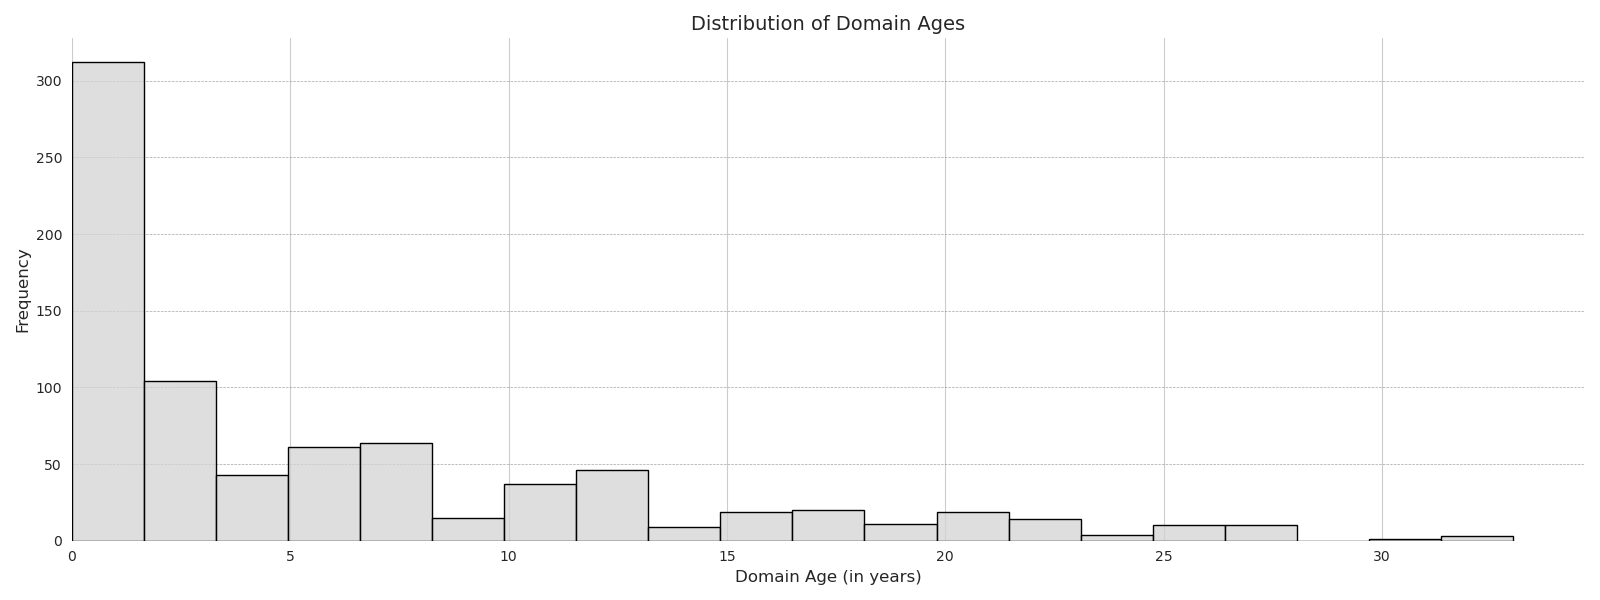
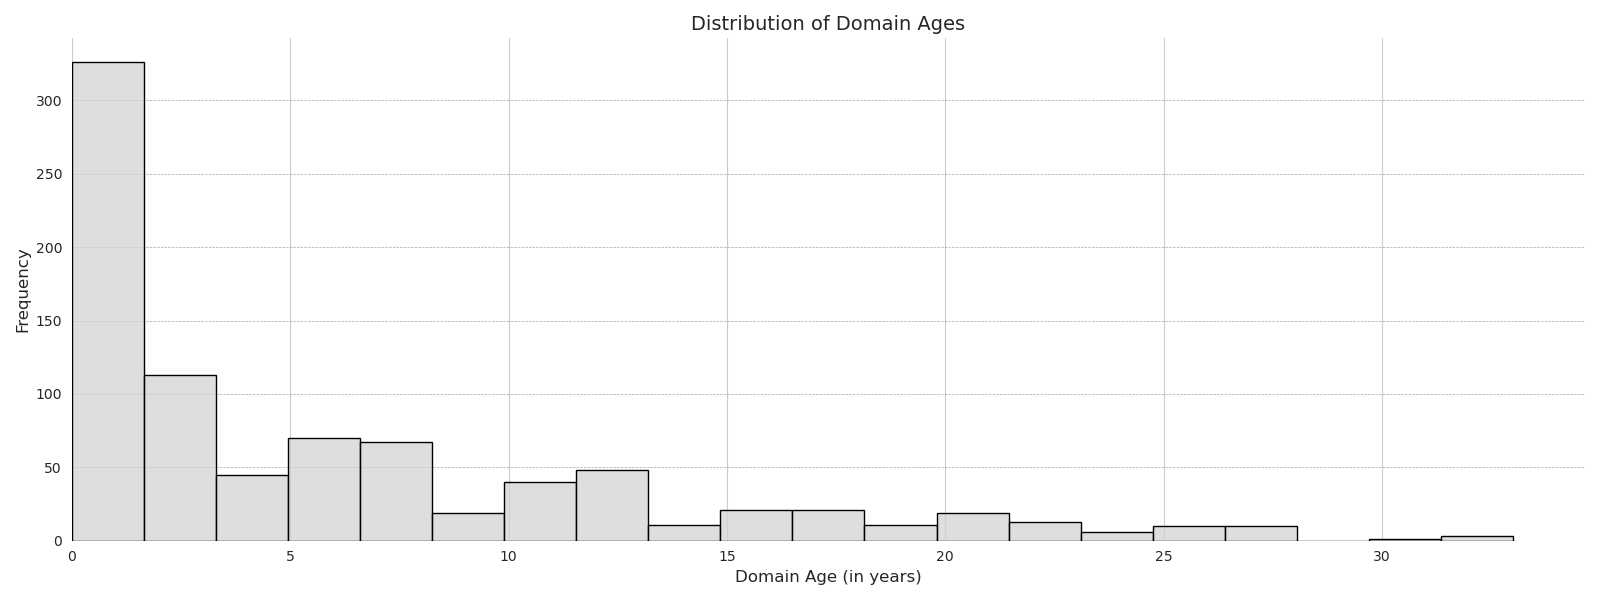
m

diff --git a/field_study/draw_utils.py b/field_study/draw_utils.py
@@ -17,6 +17,7 @@ import seaborn as sns
 from typing import List
 import cv2
 from Levenshtein import distance as levenshtein_distance
+from itertools import cycle
 
 def draw_annotated_image_nobox(image: Image.Image, txt: str):
     # Convert the image to RGBA for transparent overlay
@@ -187,16 +188,23 @@ class DomainAnalysis:
 
     def domain_age_distribution(domain_age_list):
         sns.set_style("whitegrid")
-        fig, ax = plt.subplots(figsize=(8, 6))
-        sns.histplot(domain_age_list, bins=20, kde=False, color='grey', edgecolor='black')
+        fig, ax = plt.subplots(figsize=(16, 6))  # Wider figure to match the second code
+
+        sns.histplot(domain_age_list, bins=20, color='lightgray', edgecolor='black',
+                     kde=False)  # Match color and edgecolor
 
         plt.title('Distribution of Domain Ages', fontsize=14)
         plt.xlabel('Domain Age (in years)', fontsize=12)
         plt.ylabel('Frequency', fontsize=12)
         ax.tick_params(axis='both', which='major', labelsize=10)
-        ax.yaxis.grid(True, linestyle='--', linewidth=0.7, alpha=0.7)
+        ax.yaxis.grid(True, linestyle='--', linewidth=0.5, color='gray', alpha=0.7)  # Light grid lines only for y-axis
+
         plt.xlim(left=0)
-        sns.despine()
+
+        plt.gca().spines['top'].set_visible(False)  # Remove top spine
+        plt.gca().spines['right'].set_visible(False)  # Remove right spine
+
+        sns.despine(left=True, bottom=True)
         plt.tight_layout()
         plt.savefig('./field_study/plots/domain_age.png')
         plt.close()
@@ -227,67 +235,41 @@ class BrandAnalysis:
         plt.savefig('./field_study/plots/brand_freq.png')
         plt.close()
 
-    def visualize_sectors(sectors, threshold=2.0):
+    def visualize_sectors(sectors, topk=10):
         # Aggregate the sectors
-        sector_counts = {}
-        for sector in sectors:
-            if sector == 'None':
-                sector = 'Uncategorized'
-            sector_counts[sector] = sector_counts.get(sector, 0) + 1
+        sector_counts = Counter(sectors)
 
-        # Remove 'Uncategorized' class if present
-        if 'Uncategorized' in sector_counts:
-            del sector_counts['Uncategorized']
-
-        # Combine small percentages into "Other" category
+        # Calculate total count including 'None' and 'Uncategorized'
         total = sum(sector_counts.values())
-        other_count = 0
-        for sector, count in list(sector_counts.items()):
-            if 100.0 * count / total < threshold:
-                other_count += count
-                del sector_counts[sector]
-        if other_count > 0:
-            sector_counts['Other'] = other_count
+
+        # Remove 'None' or 'Uncategorized' class for visualization
+        sector_counts.pop('None', None)
+        sector_counts.pop('Uncategorized', None)
+
+        # Sort sectors by count
+        sorted_sectors = sorted(sector_counts.items(), key=lambda x: x[1], reverse=True)[:topk]
+
+        # Calculate percentages
+        sorted_percentages = [(label, (count / total) * 100) for label, count in sorted_sectors]
 
         # Visualize the results
-        sns.set_style("white")
-        labels = list(sector_counts.keys())
-        sizes = list(sector_counts.values())
+        sns.set_style("whitegrid")
+        labels, percentages = zip(*sorted_percentages)
 
-        fig, ax = plt.subplots(figsize=(8, 5))
-        colors = sns.color_palette("tab10", len(labels))
-        if 'Other' in labels:
-            other_index = labels.index('Other')
-            colors[other_index] = (0.8, 0.8, 0.8)  # Light gray for 'Other'
+        fig, ax = plt.subplots(figsize=(10, 8))
+        colors = sns.color_palette("Blues", len(labels))
 
-        wedges, texts, autotexts = ax.pie(
-            sizes,
-            autopct='%1.1f%%',
-            startangle=140,
-            colors=colors,
-            pctdistance=0.85,  # Adjust this value to position the percentage labels
-            wedgeprops={'edgecolor': 'grey', 'linewidth': 1},
-            textprops={'fontsize': 12, 'color': 'black'}
-        )
+        ax.barh(labels, percentages, color=colors, edgecolor='grey')
+        ax.set_xlabel('Percentage (%)', fontsize=12)
+        ax.set_ylabel('Sectors', fontsize=12)
+        ax.set_title('Top {} Phishing Targets by Sector'.format(topk), fontsize=14)
+        ax.tick_params(axis='both', which='major', labelsize=10)
 
-        # Draw a white circle at the center to make it a donut chart
-        centre_circle = plt.Circle((0, 0), 0.70, fc='white', edgecolor='grey', linewidth=1)
-        fig.gca().add_artist(centre_circle)
-
-        # Add a legend with the sector labels
-        plt.legend(
-            loc="upper left",
-            labels=labels,
-            prop={'size': 10},
-            title="Sectors",
-            bbox_to_anchor=(1, 1)
-        )
-
-        plt.axis('equal')  # Equal aspect ratio ensures pie is drawn as a circle.
-        plt.title('Distribution of Phishing Targets by Sector', fontsize=14)
+        sns.despine(left=True, bottom=True)
         plt.tight_layout()
         plt.savefig('./field_study/plots/brand_sector.png')
         plt.close()
+
 
 class IPAnalysis:
 
@@ -407,42 +389,60 @@ class CampaignAnalysis:
         return clusters_path
 
     def visualize_campaign(self, clusters):
-
-        # Create a new figure.
+        # Initialize Figure
         plt.figure(figsize=(10, 6))
 
-        # Use a professional color palette
-        colors = sns.color_palette("husl", len(clusters))
+        # Define Color Palette
+        colors = cycle(sns.color_palette("husl", 5))
 
-        # Collect all unique dates
+        # Extract Unique Dates
         all_dates = set()
         for cluster in clusters:
             _, dates, targets = zip(*cluster)
             all_dates.update(dates)
         all_dates = sorted(list(all_dates), key=lambda date: datetime.strptime(date, '%Y-%m-%d'))
 
-        # Convert each cluster into a timeseries and plot it.
-        for i, (cluster, color) in enumerate(zip(clusters, colors)):
-            # Skip clusters with fewer than 3 items or only seen on a single date
+        # Plot Time Series for Each Cluster
+        for i, cluster in enumerate(clusters):
             _, dates, targets = zip(*cluster)
-            if len(cluster) < 4 or len(set(dates)) == 1 or targets[0] == 'outlook.com':
+
+            # Filter Clusters
+            if len(cluster) < 4 or targets[0] == 'outlook.com':
                 continue
             print(cluster)
+            # Convert Cluster to Time Series
             dates, counts = self.cluster_to_timeseries(cluster, all_dates)
-            plt.plot(dates, counts, marker='o', color=color, label=f'Target = {targets[0]}')
 
-        # Add a legend and labels.
+            # Identify Indices for First and Last Increases
+            first_increase_index, last_increase_index = None, None
+            for i in range(1, len(counts)):
+                if counts[i] > counts[i - 1]:
+                    last_increase_index = i
+                    if first_increase_index is None:
+                        first_increase_index = i
+
+            # Trim and Plot Time Series
+            if first_increase_index is not None and last_increase_index is not None:
+                trimmed_dates = dates[first_increase_index:last_increase_index + 1]
+                trimmed_counts = counts[first_increase_index:last_increase_index + 1]
+                color = next(colors)
+                plt.plot(trimmed_dates, trimmed_counts, marker='o', color=color, label=f'Target = {targets[0]}')
+
+        # Configure Plot Aesthetics
         plt.xticks(range(len(all_dates)), all_dates, rotation=45)
-        plt.legend()
+        plt.ylim(bottom=0)
+        plt.yticks(np.arange(np.floor(min(counts)), np.ceil(max(counts)) + 1, 1))
         plt.xlabel('Date')
         plt.ylabel('Cumulative number of screenshots')
         plt.title('Phishing Campaign over Time')
+        plt.legend()
 
+        # Add Minimalist Grid Lines
+        plt.grid(axis='x', linestyle='--', linewidth=0.5, color='gray')
+        plt.grid(axis='y', linestyle='--', linewidth=0.5, color='gray')
+
+        # Finalize and Save Plot
         plt.tight_layout()
-        plt.grid(True)  # Adding a grid for better readability
-        sns.despine(left=True, bottom=True)  # Remove the top and right spines
-
-        # Save the figure.
         plt.savefig('./field_study/plots/campaign.png')
         plt.close()
 
@@ -506,10 +506,16 @@ if __name__ == '__main__':
 
 # [('./datasets/phishing_TP_examples/2023-08-12/luka.sui.ducoccho1.click/shot.png', '2023-08-12', 'facebook.com'), ('./datasets/phishing_TP_examples/2023-08-15/webfb.anhlongvedithoi.click/shot.png', '2023-08-15', 'facebook.com'), ('./datasets/phishing_TP_examples/2023-08-09/www.lf.wuangu1.click/shot.png', '2023-08-09', 'facebook.com'), ('./datasets/phishing_TP_examples/2023-08-13/zuk.pergugu.click/shot.png', '2023-08-13', 'facebook.com'), ('./datasets/phishing_TP_examples/2023-08-21/ca.quynhquynh1.click/shot.png', '2023-08-21', 'facebook.com'), ('./datasets/phishing_TP_examples/2023-08-08/login-france.xuanbac.click/shot.png', '2023-08-08', 'facebook.com'), ('./datasets/phishing_TP_examples/2023-08-08/login-usa.xuanbac.click/shot.png', '2023-08-08', 'facebook.com')]
 
-# [('./datasets/phishing_TP_examples/2023-08-23/tr13915752.consultoriaprotecciondedatos.es/shot.png', '2023-08-23', 'ccc.de'),
-# ('./datasets/phishing_TP_examples/2023-08-23/tr95674037.econcontabilidade.com.br/shot.png', '2023-08-23', 'ccc.de'),
-# ('./datasets/phishing_TP_examples/2023-08-25/tr220943940.impulseducacio.org/shot.png', '2023-08-25', 'ccc.de'),
-# ('./datasets/phishing_TP_examples/2023-08-28/tr171152683.conhecimentoelevado.com/shot.png', '2023-08-28', 'ccc.de'),
-# ('./datasets/phishing_TP_examples/2023-08-23/tr4641605.goldsecurity.cl/shot.png', '2023-08-23', 'ccc.de'),
-# ('./datasets/phishing_TP_examples/2023-08-24/tr146097701.foto-metal.online/shot.png', '2023-08-24', 'ccc.de')]
+#[('./datasets/phishing_TP_examples/2023-08-12/device-28d57a5d-3dcf-4627-b8aa-91ce9b079e2a.remotewd.com/shot.png', '2023-08-12', 'sonicwall.com'),
+# ('./datasets/phishing_TP_examples/2023-08-09/device-1d0a7d34-ad6b-44fb-980a-ca0c2d6af315.remotewd.com/shot.png', '2023-08-09', 'sonicwall.com'),
+# ('./datasets/phishing_TP_examples/2023-08-21/device-87026422-3800-4f5b-81ab-83428f9fbc7f.remotewd.com/shot.png', '2023-08-21', 'sonicwall.com'),
+# ('./datasets/phishing_TP_examples/2023-08-15/device-457d2002-8d84-452f-a228-4e218e3cf58a.remotewd.com/shot.png', '2023-08-15', 'sonicwall.com')]
+# frame embedded into the webpage, trigger timeout after certain seconds setTimeout('timedOut()', 1 * 60000 - 1000);
+
+#[('./datasets/phishing_TP_examples/2023-08-21/cmajouledemo.stacksplatform.com/shot.png', '2023-08-21', 'ebsco.com'),
+# ('./datasets/phishing_TP_examples/2023-08-14/camvdemo.stacksplatform.com/shot.png', '2023-08-14', 'ebsco.com'),
+# ('./datasets/phishing_TP_examples/2023-08-17/admwilddemo.stacksplatform.com/shot.png', '2023-08-17', 'ebsco.com'),
+# ('./datasets/phishing_TP_examples/2023-08-14/tpmeddemodemo.stacksplatform.com/shot.png', '2023-08-14', 'ebsco.com')]
+# register button does not work, has a email sharing button that can distribute the URLs to other audience, Powered By EBSCO Stacks is linked to the real absco.com page
+
 
